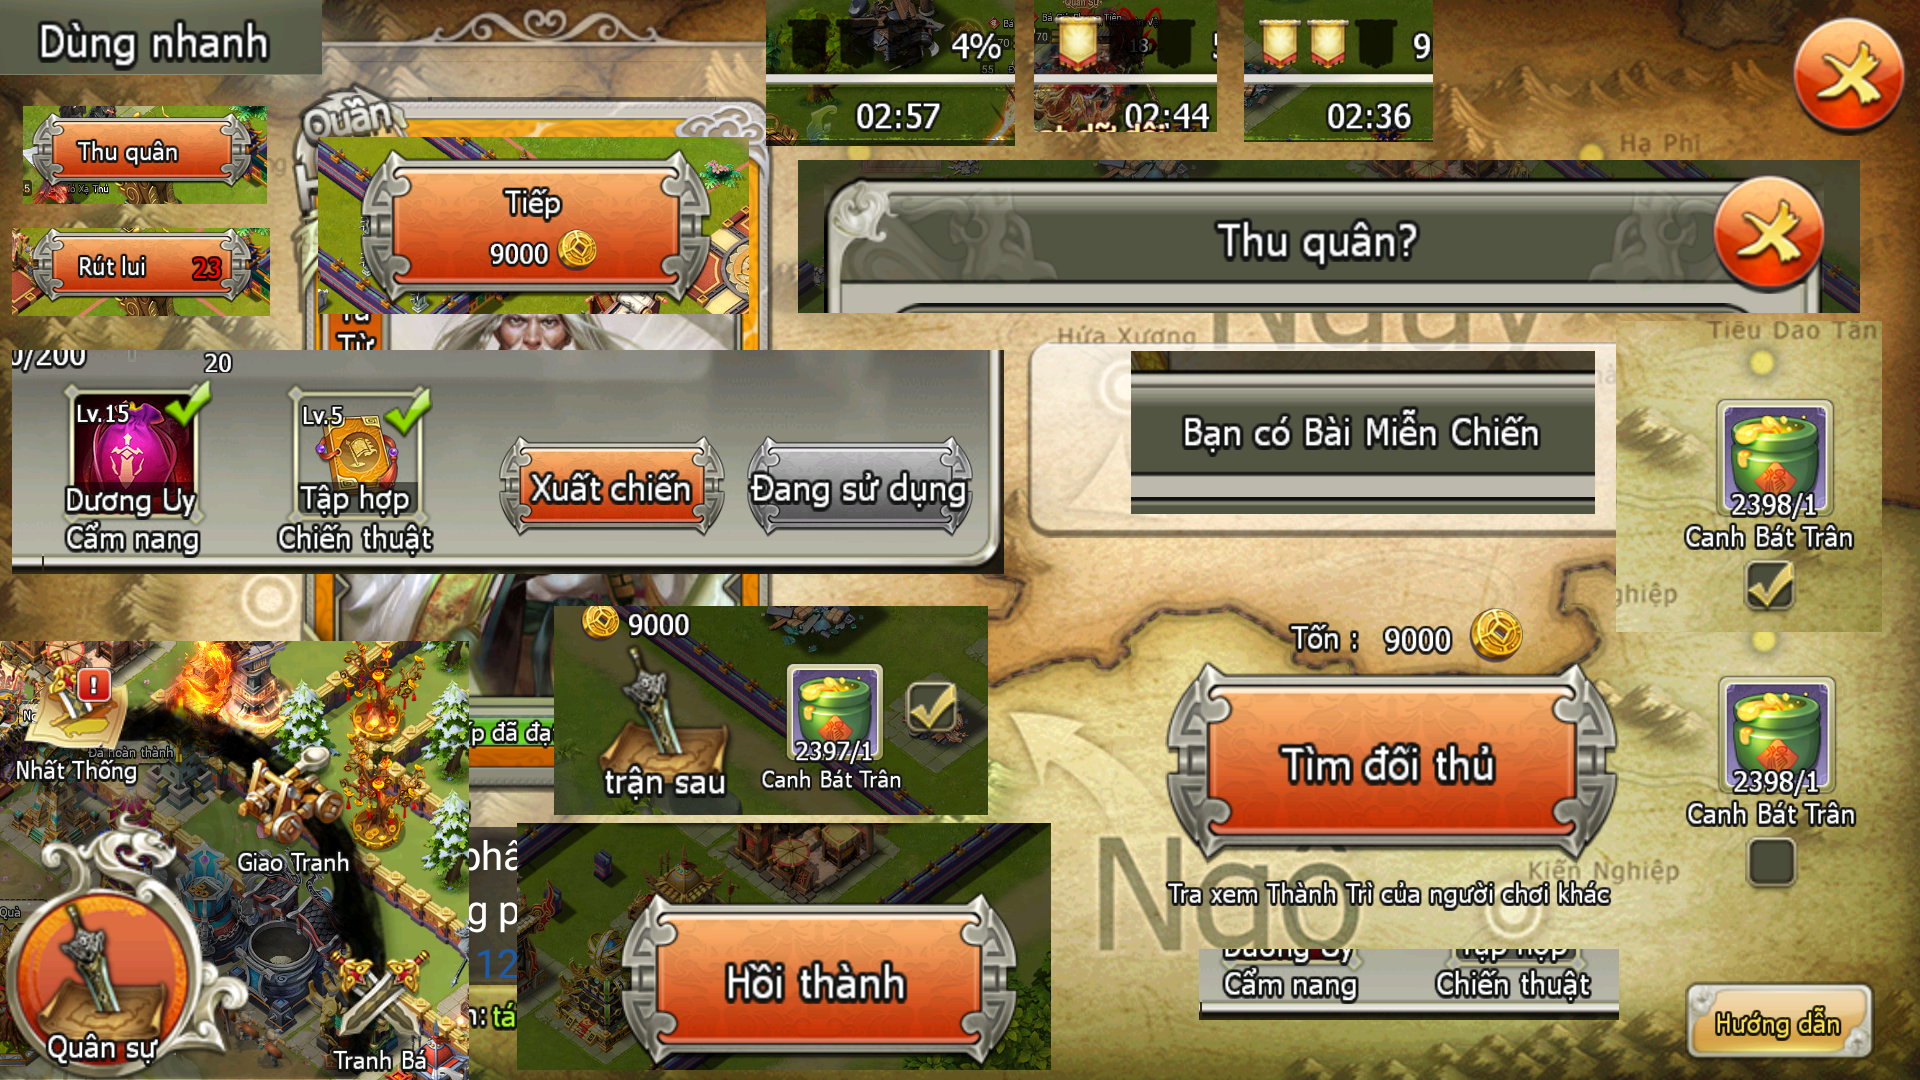
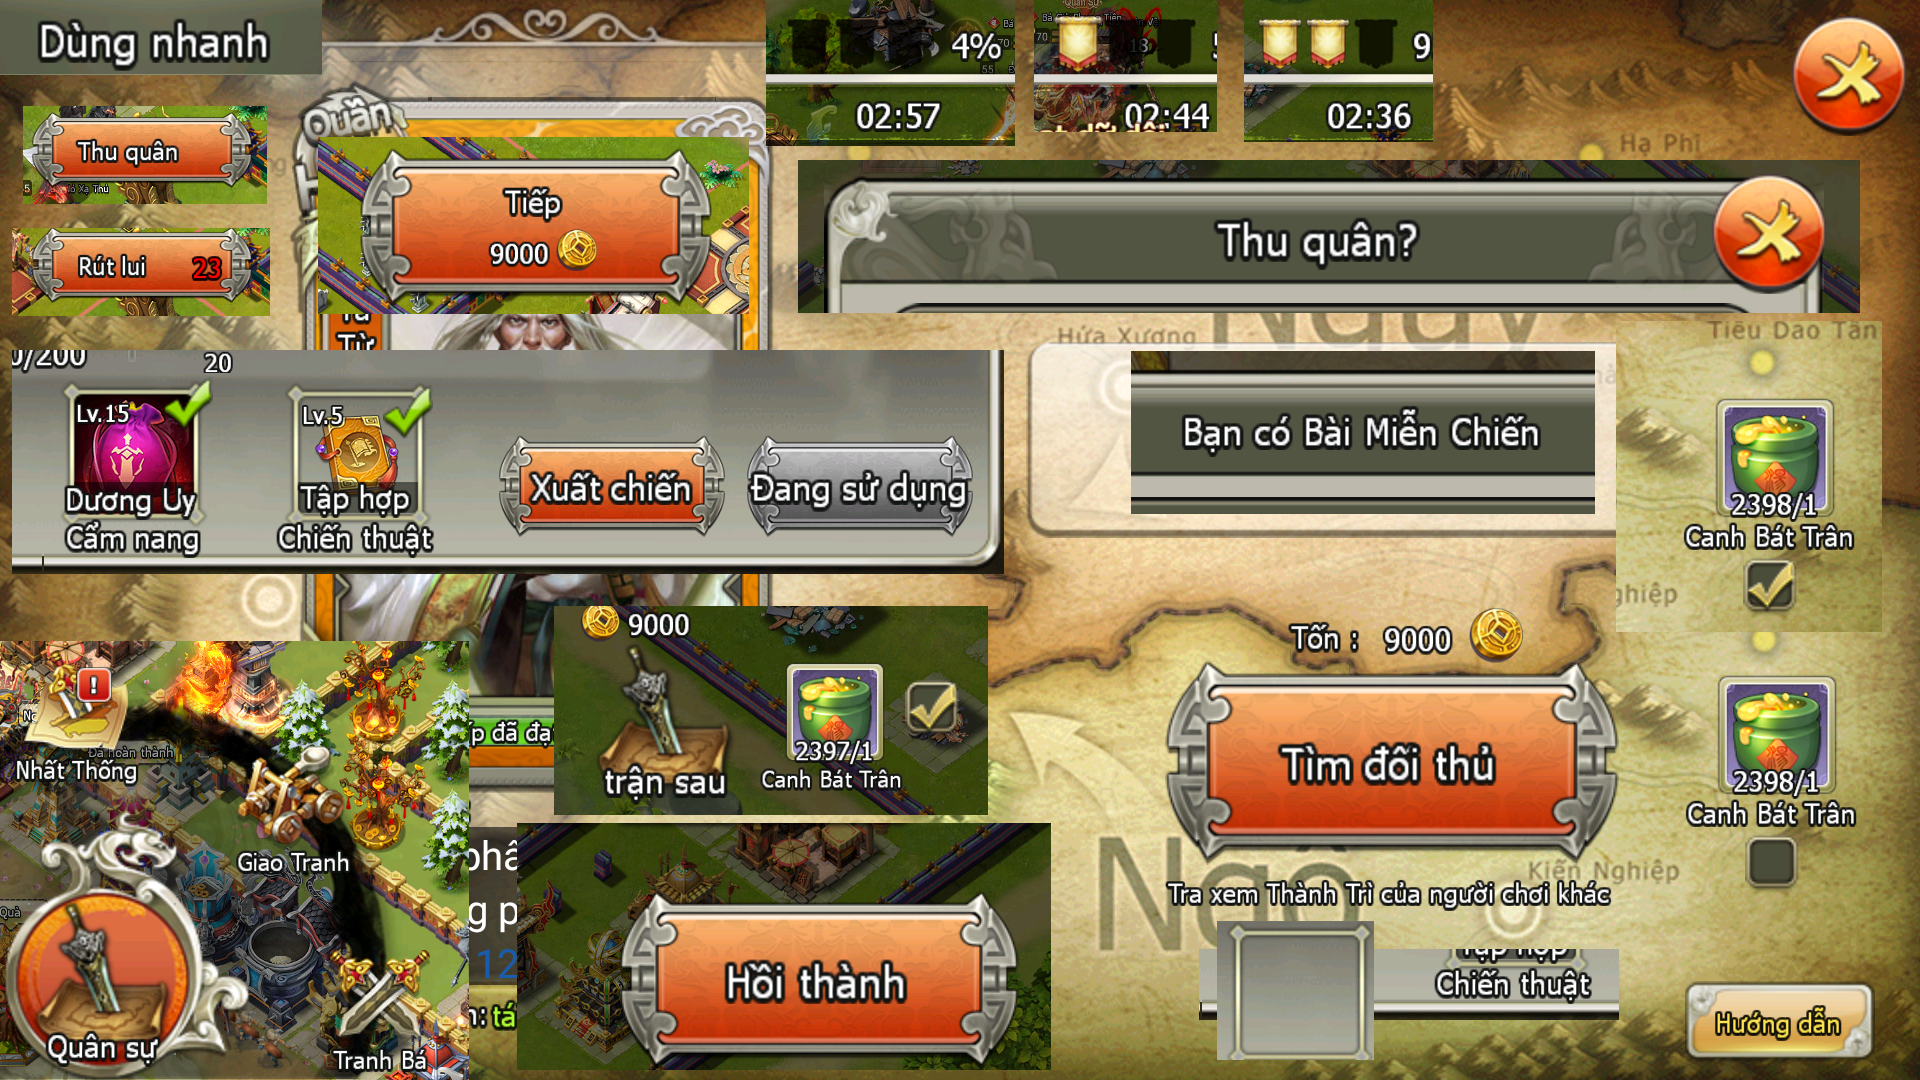
atr

Changed region(s): [[0.625, 0.8556, 0.7188, 1.0]]

diff --git a/dctq_auto/tasks/common/battle/task_open_battle.py b/dctq_auto/tasks/common/battle/task_open_battle.py
@@ -9,7 +9,7 @@ from dctq_auto.config.button_positions import ButtonPositions
 from dctq_auto.config.constants import (
     _TEMPLATE_MAIN_QUAN_SU,
     _TEMPLATE_QUAN_SU_GIAO_TRANH_BAI_MIEN_CHIEN,
-    _TEMPLATE_QUAN_SU_GIAO_TRANH_CHIEN_THUAT,
+    _TEMPLATE_QUAN_SU_GIAO_TRANH_CHUA_CO_CHIEN_THUAT,
     _TEMPLATE_QUAN_SU_GIAO_TRANH_CHUA_SU_DUNG_CANH_BAT_TRAN,
     _TEMPLATE_QUAN_SU_GIAO_TRANH_LOI_VAO,
     _TEMPLATE_QUAN_SU_GIAO_TRANH_TIM_DOI_THU,
@@ -43,7 +43,7 @@ _MAX_TRIES = 60
 
 def detect_group(screen_bgr, account, log) -> str:
     """Nhận diện Chiến Thuật để chọn bộ tọa độ võ tướng."""
-    template_name = _TEMPLATE_QUAN_SU_GIAO_TRANH_CHIEN_THUAT
+    template_name = _TEMPLATE_QUAN_SU_GIAO_TRANH_CHUA_CO_CHIEN_THUAT
     templates = get_templates((template_name,))
     template = templates.get(template_name)
 
@@ -70,8 +70,9 @@ def detect_group(screen_bgr, account, log) -> str:
         )
         return "quan_su.giao_tranh.danh_sach2"
 
+    # Đã có chiến thuật nên không match
     if match is None:
-        return "quan_su.giao_tranh.danh_sach2"
+        return "quan_su.giao_tranh.danh_sach1"
 
     report_template_match(
         log,
@@ -79,7 +80,7 @@ def detect_group(screen_bgr, account, log) -> str:
         template=template,
         match=match,
     )
-    return "quan_su.giao_tranh.danh_sach1"
+    return "quan_su.giao_tranh.danh_sach2"
 
 
 def _handle_template_match(

diff --git a/dctq_auto/config/constants.py b/dctq_auto/config/constants.py
@@ -23,7 +23,7 @@ _TEMPLATE_QUAN_SU_GIAO_TRANH_TIM_DOI_THU = "quan_su.giao_tranh/tim_doi_thu"
 _TEMPLATE_QUAN_SU_GIAO_TRANH_BAI_MIEN_CHIEN = "quan_su.giao_tranh/bai_mien_chien"
 _TEMPLATE_QUAN_SU_GIAO_TRANH_CAM_NANG = "quan_su.giao_tranh/cam_nang"
 _TEMPLATE_QUAN_SU_GIAO_TRANH_XUAT_CHIEN = "quan_su.giao_tranh/xuat_chien"
-_TEMPLATE_QUAN_SU_GIAO_TRANH_CHIEN_THUAT = "quan_su.giao_tranh/chien_thuat"
+_TEMPLATE_QUAN_SU_GIAO_TRANH_CHUA_CO_CHIEN_THUAT = "quan_su.giao_tranh/chua_co_chien_thuat"
 _TEMPLATE_QUAN_SU_GIAO_TRANH_RUT_LUI = "quan_su.giao_tranh/rut_lui"
 _TEMPLATE_QUAN_SU_GIAO_TRANH_THU_QUAN = "quan_su.giao_tranh/thu_quan"
 _TEMPLATE_QUAN_SU_GIAO_TRANH_TRAN_SAU = "quan_su.giao_tranh/tran_sau"
